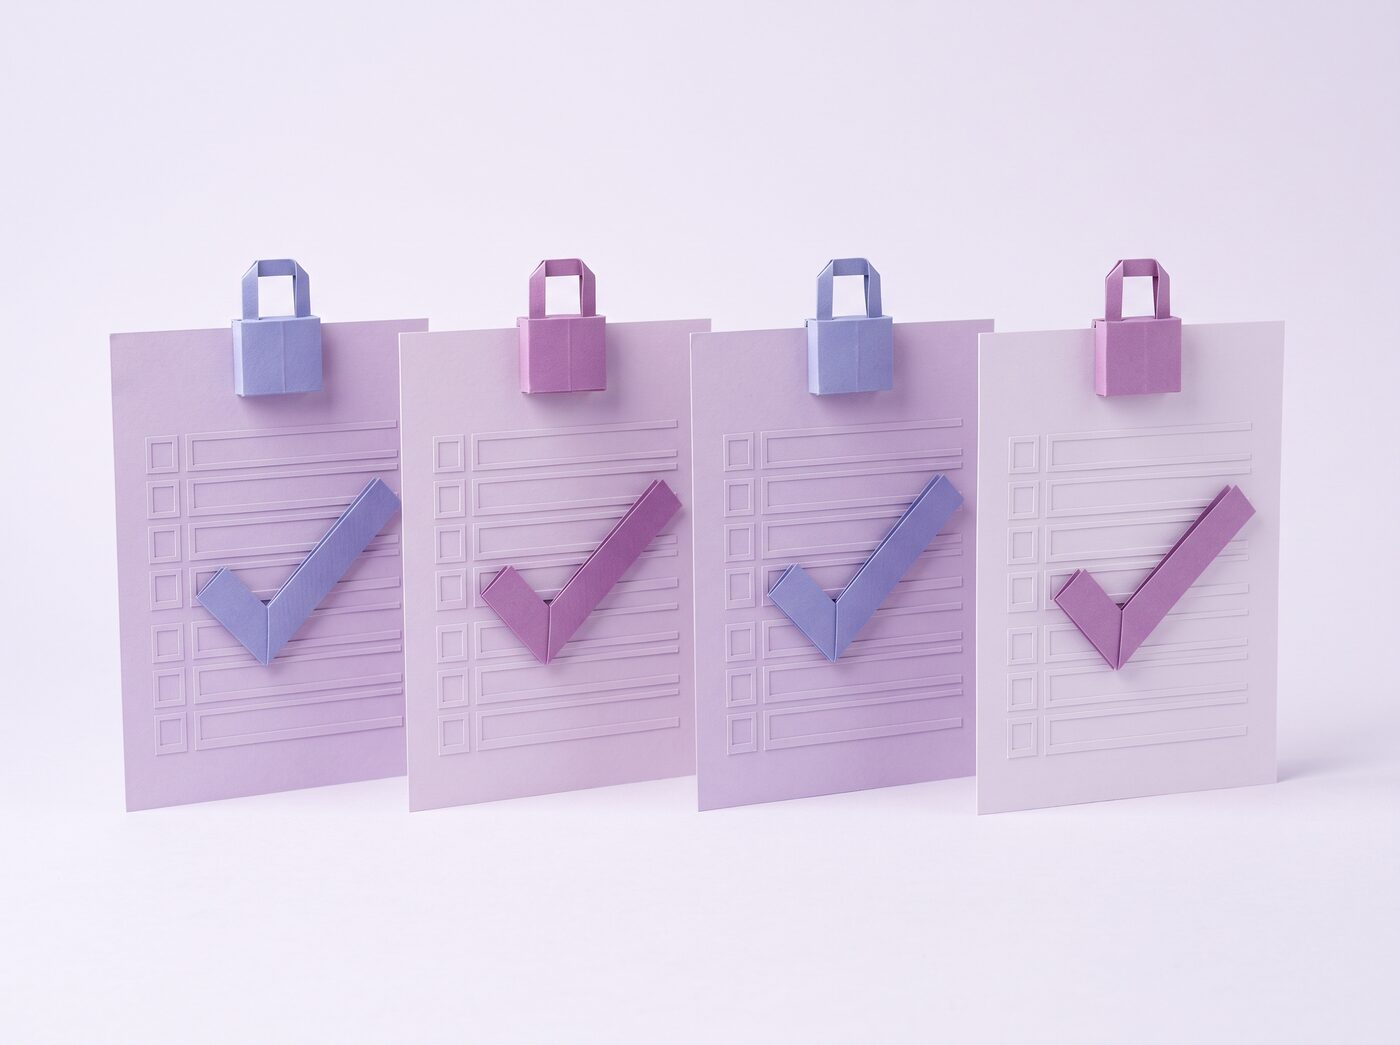
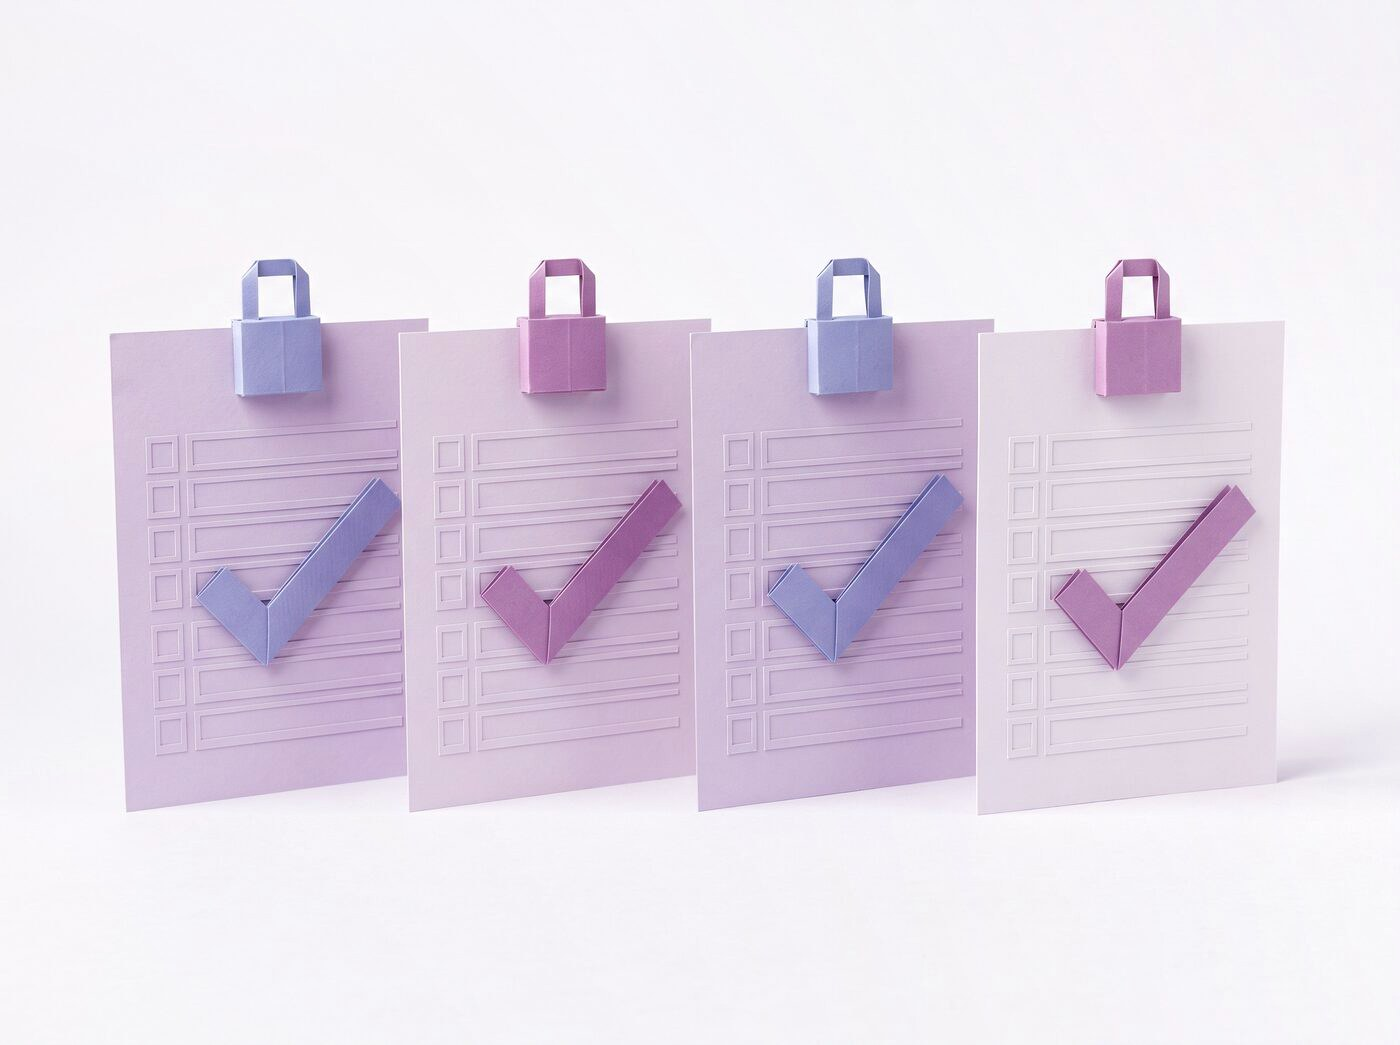
Flatten the key art's studio falloff so it stops cutting off against the page
The art panel read as a blurred rectangle pasted onto the paper. The feather
was not the cause: the render's studio ground falls off across the frame, and
measured against the page it sat 4 luminance points low at bottom-left and 29
low at top-right. That is a colour difference, and feathering cannot hide one,
it only decides where it sits -- which is why lengthening the fade moved the
edge around without removing it.

tools/flatfield fits a 2D quadratic to the border region, which is certainly
backdrop, extrapolates it across the frame and divides it out. The correction
is multiplicative because the thing being corrected is illumination: the
subject is scaled by the same factor as the ground beside it, so the paper
keeps its modelling rather than being flattened. Gains run 0.99 to 1.13.

Measured on the rendered page, art ground against bare page beside it: worst
case 15.4 luminance points before, 2.4 after. A run of 1400 backdrop pixels
has a maximum step of 3 and seven steps over 1, so the re-encode has not
banded the gradient it just smoothed.

The feather stays. Now that the two grounds match it fades paper into
identical paper, costing nothing visible, and it still guarantees no hard edge
from the couple of points that remain.

The tool is behind the ignore tag. It takes paths straight off the command
line, which is right for a CLI and which gosec reasonably objects to in an
authentication service. The committed asset hashes identically to what it
[…]

Changed region(s): [[0.8293, 0.0, 1.0, 0.5512]]

diff --git a/tools/flatfield/main.go b/tools/flatfield/main.go
@@ -1,0 +1,185 @@
+//go:build ignore
+
+// Command flatfield corrects a key-art render so its studio backdrop becomes
+// the page colour.
+//
+// Run it when a new render is brought in from the website's art set:
+//
+//	go run tools/flatfield/main.go \
+//	    ../../website/public/art/security.jpg \
+//	    internal/assets/static/images/key-art-security.jpg
+//
+// Built behind the ignore tag: it is a developer utility that takes file paths
+// straight off the command line, which is correct for a CLI and which gosec
+// reasonably flags when it is compiled as part of an authentication service.
+//
+// The render's ground falls off across the frame -- measured at 4 luminance
+// points below the page at bottom-left and 29 at top-right. That is a colour
+// difference, and no amount of edge feathering hides one; it only decides where
+// the difference sits. Correcting the illumination removes it.
+//
+// The field is fitted as a 2D quadratic over the border region, which is
+// guaranteed to be backdrop, then extrapolated across the whole frame. A
+// max-filter would have been simpler but breaks down in the middle of the
+// subject, where there is no backdrop within any sane radius to sample.
+package main
+
+import (
+	"fmt"
+	"image"
+	"image/color"
+	"image/jpeg"
+	"math"
+	"os"
+)
+
+// quadratic basis at a normalised point.
+func basis(x, y float64) [6]float64 {
+	return [6]float64{1, x, y, x * x, x * y, y * y}
+}
+
+// solve returns the least-squares coefficients for A'A c = A'b, given the
+// accumulated normal equations.
+func solve(n [6][6]float64, rhs [6]float64) [6]float64 {
+	var m [6][7]float64
+	for i := 0; i < 6; i++ {
+		copy(m[i][:6], n[i][:])
+		m[i][6] = rhs[i]
+	}
+	for col := 0; col < 6; col++ {
+		pivot := col
+		for r := col + 1; r < 6; r++ {
+			if math.Abs(m[r][col]) > math.Abs(m[pivot][col]) {
+				pivot = r
+			}
+		}
+		m[col], m[pivot] = m[pivot], m[col]
+		if math.Abs(m[col][col]) < 1e-12 {
+			continue
+		}
+		for r := 0; r < 6; r++ {
+			if r == col {
+				continue
+			}
+			f := m[r][col] / m[col][col]
+			for c := col; c < 7; c++ {
+				m[r][c] -= f * m[col][c]
+			}
+		}
+	}
+	var out [6]float64
+	for i := 0; i < 6; i++ {
+		if math.Abs(m[i][i]) > 1e-12 {
+			out[i] = m[i][6] / m[i][i]
+		}
+	}
+	return out
+}
+
+func main() {
+	in, out := os.Args[1], os.Args[2]
+	// Target is the page ground, #f6f4f8.
+	target := [3]float64{246, 244, 248}
+
+	f, err := os.Open(in)
+	if err != nil {
+		panic(err)
+	}
+	src, err := jpeg.Decode(f)
+	if err != nil {
+		panic(err)
+	}
+	_ = f.Close()
+
+	b := src.Bounds()
+	w, h := b.Dx(), b.Dy()
+
+	// The border band that is certainly backdrop. The subject spans roughly
+	// x 7-93% and y 24-80%, so these margins stay clear of it.
+	isBorder := func(px, py int) bool {
+		fx, fy := float64(px)/float64(w-1), float64(py)/float64(h-1)
+		return fy < 0.18 || fy > 0.88 || fx < 0.05 || fx > 0.96
+	}
+
+	var coeffs [3][6]float64
+	for ch := 0; ch < 3; ch++ {
+		var n [6][6]float64
+		var rhs [6]float64
+		for py := 0; py < h; py++ {
+			for px := 0; px < w; px++ {
+				if !isBorder(px, py) {
+					continue
+				}
+				r, g, bl, _ := src.At(b.Min.X+px, b.Min.Y+py).RGBA()
+				v := []float64{float64(r >> 8), float64(g >> 8), float64(bl >> 8)}[ch]
+				fx, fy := float64(px)/float64(w-1), float64(py)/float64(h-1)
+				bs := basis(fx, fy)
+				for i := 0; i < 6; i++ {
+					for j := 0; j < 6; j++ {
+						n[i][j] += bs[i] * bs[j]
+					}
+					rhs[i] += bs[i] * v
+				}
+			}
+		}
+		coeffs[ch] = solve(n, rhs)
+	}
+
+	fmt.Printf("fitted field, corners (r,g,b):\n")
+	for _, p := range [][2]float64{{0, 0}, {1, 0}, {0, 1}, {1, 1}} {
+		var v [3]float64
+		for ch := 0; ch < 3; ch++ {
+			bs := basis(p[0], p[1])
+			for i := 0; i < 6; i++ {
+				v[ch] += coeffs[ch][i] * bs[i]
+			}
+		}
+		fmt.Printf("  (%.0f,%.0f) %.1f %.1f %.1f  -> gain %.3f %.3f %.3f\n",
+			p[0], p[1], v[0], v[1], v[2], target[0]/v[0], target[1]/v[1], target[2]/v[2])
+	}
+
+	dst := image.NewRGBA(b)
+	for py := 0; py < h; py++ {
+		fy := float64(py) / float64(h-1)
+		for px := 0; px < w; px++ {
+			fx := float64(px) / float64(w-1)
+			bs := basis(fx, fy)
+			r, g, bl, _ := src.At(b.Min.X+px, b.Min.Y+py).RGBA()
+			vals := [3]float64{float64(r >> 8), float64(g >> 8), float64(bl >> 8)}
+			var o [3]uint8
+			for ch := 0; ch < 3; ch++ {
+				var field float64
+				for i := 0; i < 6; i++ {
+					field += coeffs[ch][i] * bs[i]
+				}
+				if field < 1 {
+					field = 1
+				}
+				// Multiplicative, which is what illumination is: the subject is
+				// corrected by the same factor as the ground beside it, so the
+				// paper keeps its modelling instead of being flattened.
+				v := vals[ch] * target[ch] / field
+				if v < 0 {
+					v = 0
+				}
+				if v > 255 {
+					v = 255
+				}
+				o[ch] = uint8(v + 0.5)
+			}
+			dst.Set(b.Min.X+px, b.Min.Y+py, color.RGBA{o[0], o[1], o[2], 255})
+		}
+	}
+
+	g, err := os.Create(out)
+	if err != nil {
+		panic(err)
+	}
+	if err := jpeg.Encode(g, dst, &jpeg.Options{Quality: 88}); err != nil {
+		panic(err)
+	}
+	if err := g.Close(); err != nil {
+		panic(err)
+	}
+	fmt.Println("wrote", out)
+}
